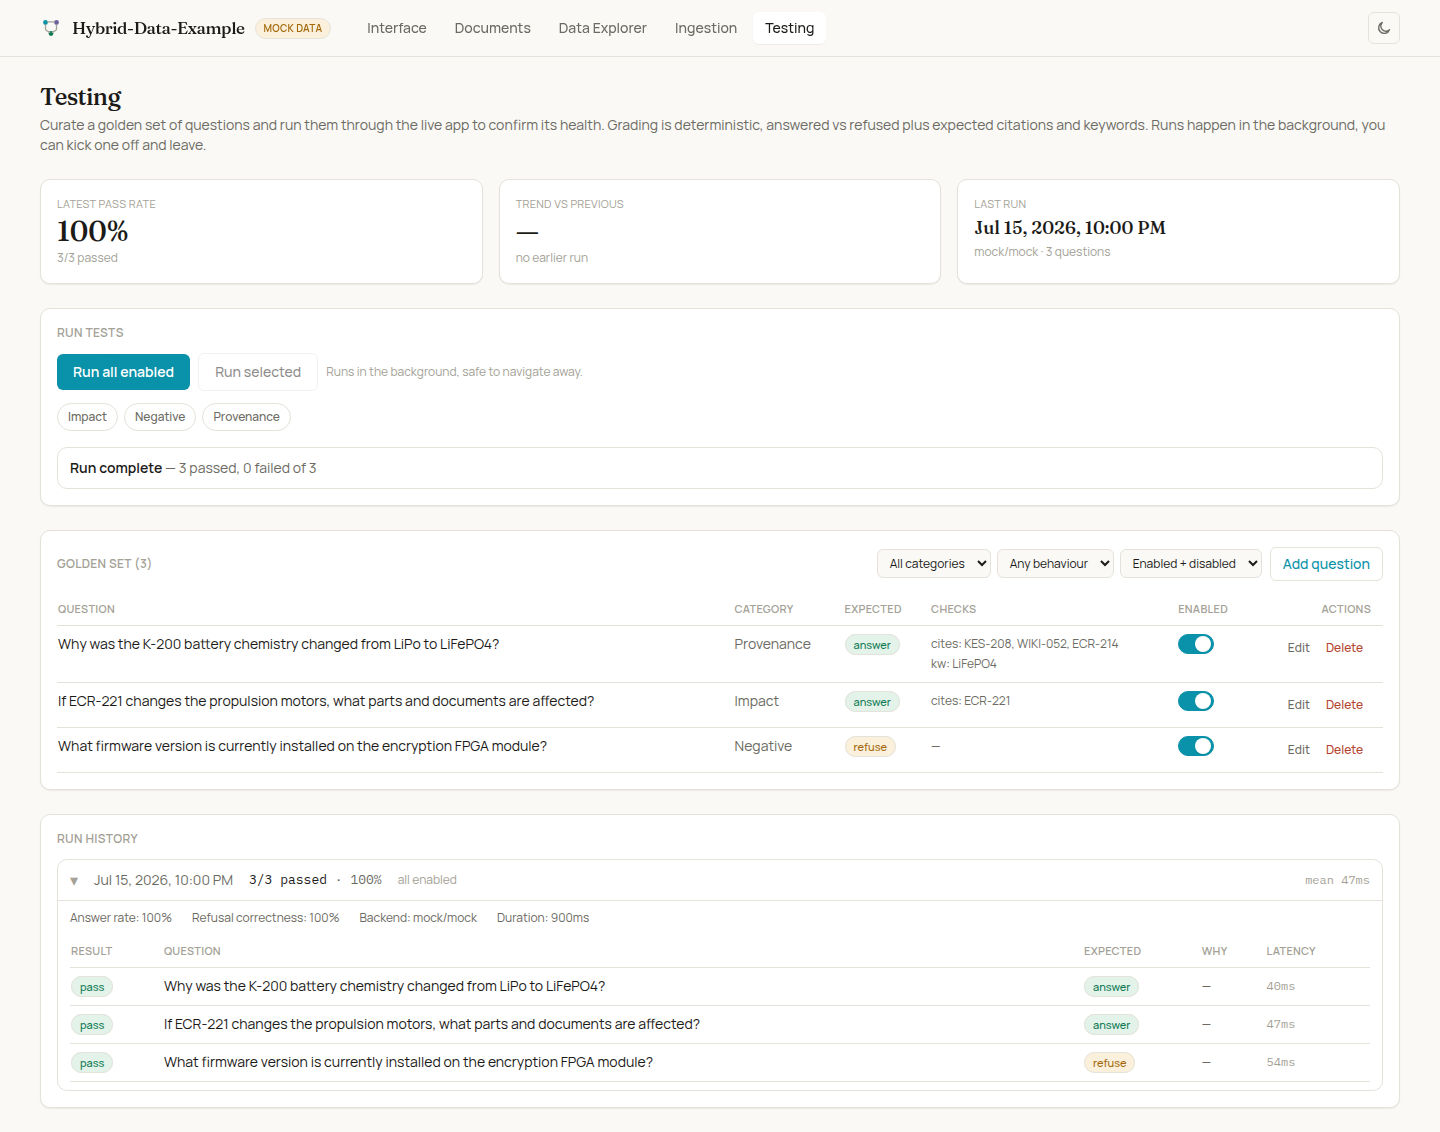
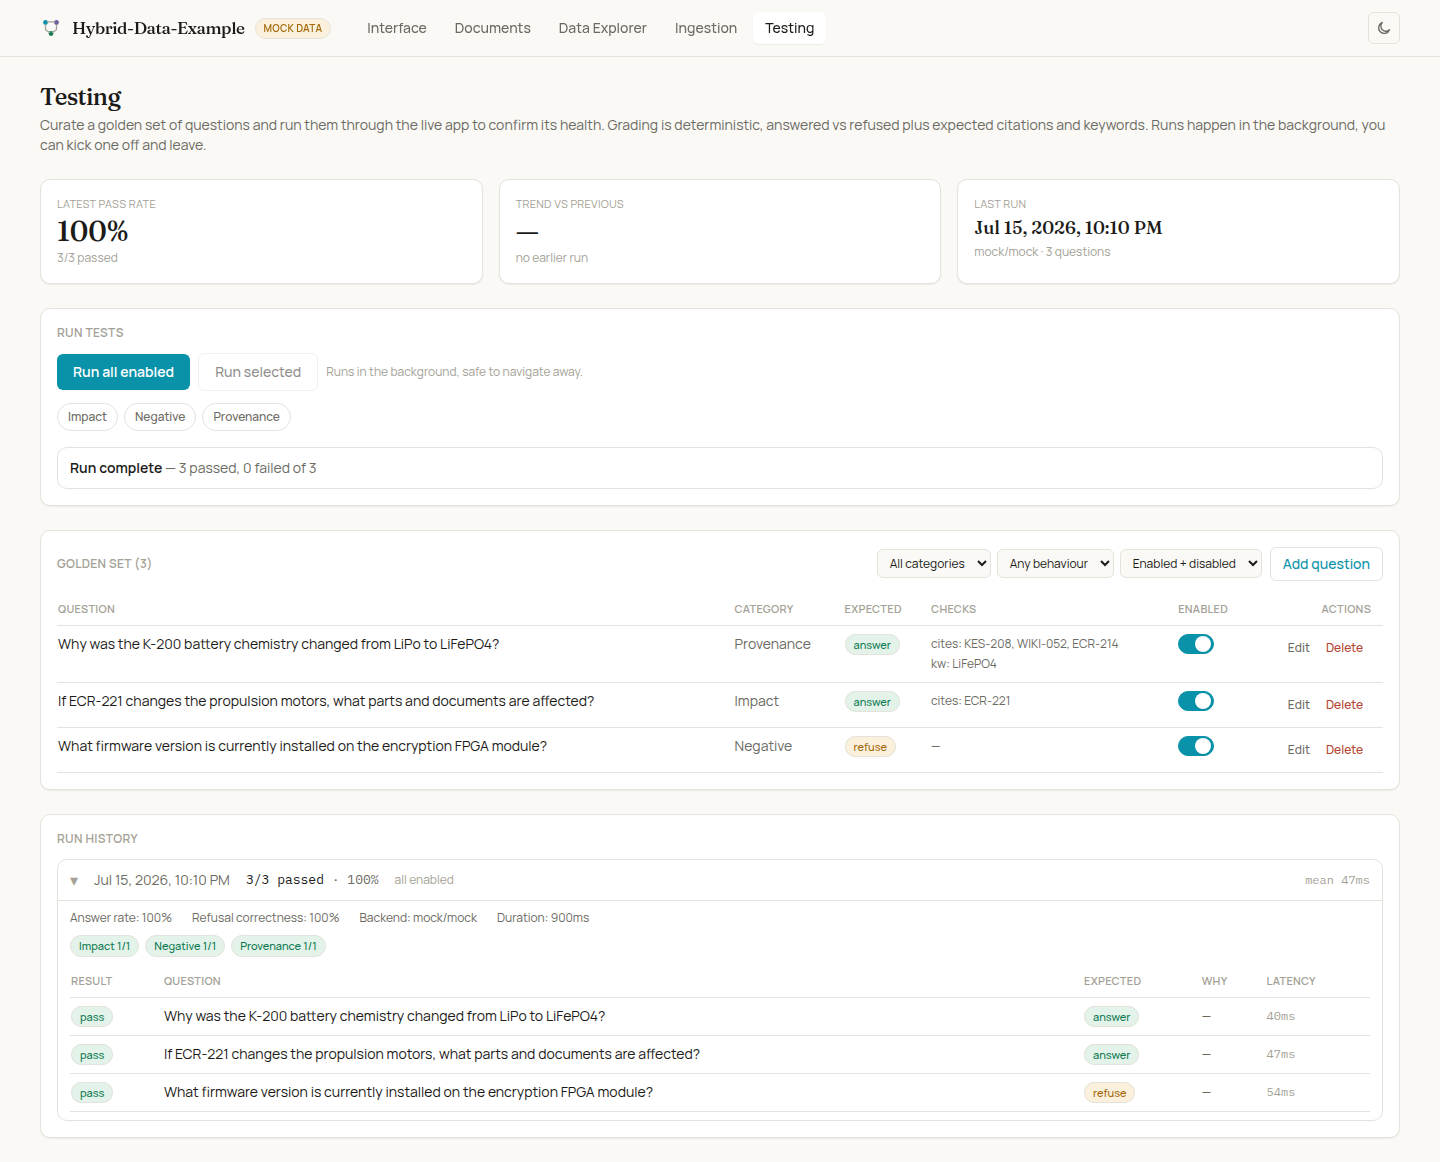
Frontend: per-category pass/fail breakdown in run detail
The expanded run detail now shows a pass/fail chip per category (green when the
whole category passed, red otherwise), so a run summary surfaces where failures
cluster — not just the overall tally. Refreshed the run-results screenshot.

Claude-Session: https://claude.ai/code/session_01XJbTrJetkGqH6WonAsubfb

diff --git a/frontend/src/pages/TestingPage.tsx b/frontend/src/pages/TestingPage.tsx
@@ -4,6 +4,7 @@ import type {
   GoldenBehaviour,
   GoldenQuestion,
   GoldenQuestionInput,
+  TestResult,
   TestRunDetail,
   TestRunStatus,
   TestRunSummary,
@@ -665,6 +666,7 @@ function RunRow({ run }: { run: TestRunSummary }) {
             <span>Backend: {run.backend ?? "—"}</span>
             {run.duration_ms != null && <span>Duration: {formatLatency(run.duration_ms)}</span>}
           </div>
+          {detail && <CategoryBreakdown results={detail.results} />}
           {!detail ? (
             <p className="text-sm text-ink-faint">Loading results…</p>
           ) : (
@@ -709,6 +711,36 @@ function RunRow({ run }: { run: TestRunSummary }) {
           )}
         </div>
       )}
+    </div>
+  );
+}
+
+function CategoryBreakdown({ results }: { results: TestResult[] }) {
+  const byCat = new Map<string, { passed: number; total: number }>();
+  for (const r of results) {
+    const c = byCat.get(r.category) ?? { passed: 0, total: 0 };
+    c.total += 1;
+    if (r.passed) c.passed += 1;
+    byCat.set(r.category, c);
+  }
+  if (byCat.size <= 1) return null;
+  return (
+    <div className="mb-2 flex flex-wrap gap-1.5" data-testid="category-breakdown">
+      {[...byCat.entries()].sort().map(([cat, { passed, total }]) => {
+        const all = passed === total;
+        return (
+          <span
+            key={cat}
+            className={`rounded-full border px-2 py-0.5 text-[11px] font-medium capitalize ${
+              all
+                ? "border-tier-formal/30 bg-tier-formal-soft text-tier-formal"
+                : "border-confidence-low/30 bg-confidence-low/10 text-confidence-low"
+            }`}
+          >
+            {cat} {passed}/{total}
+          </span>
+        );
+      })}
     </div>
   );
 }